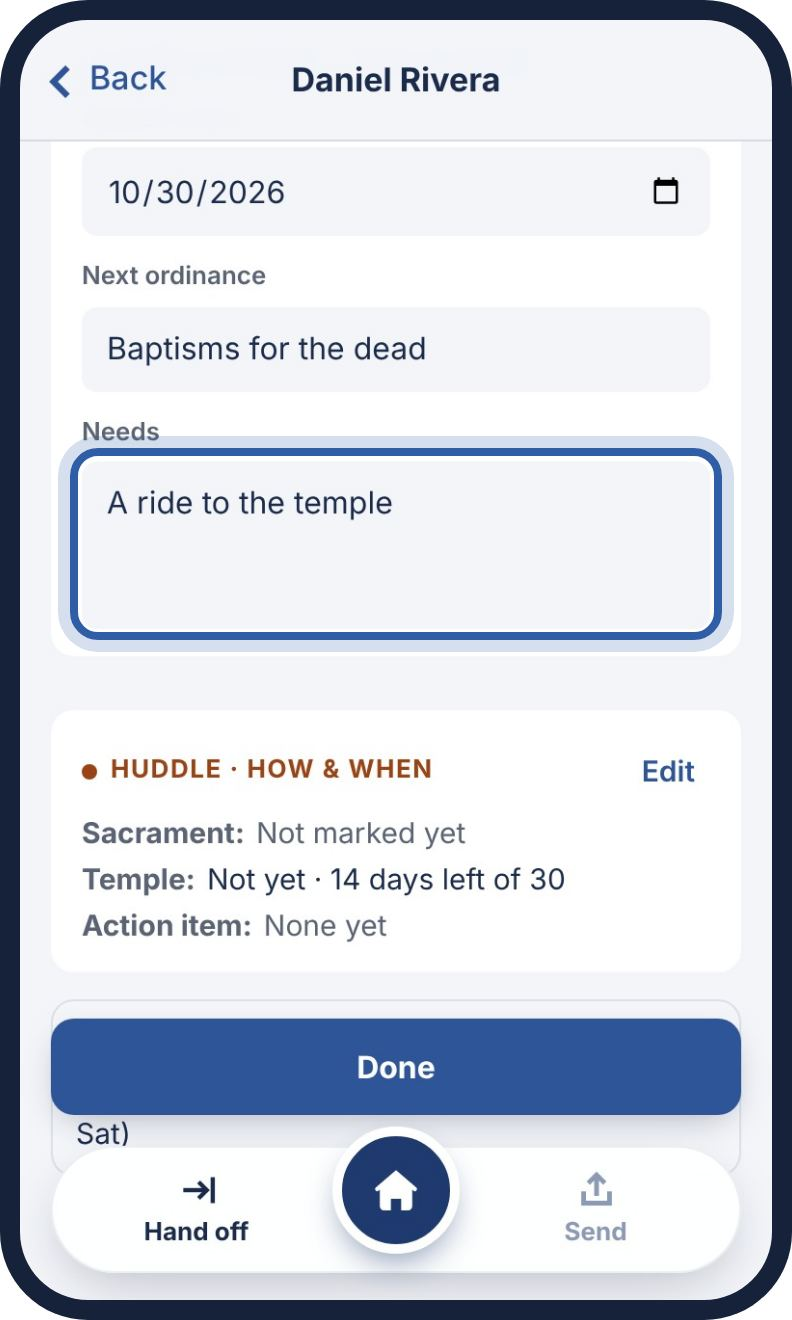
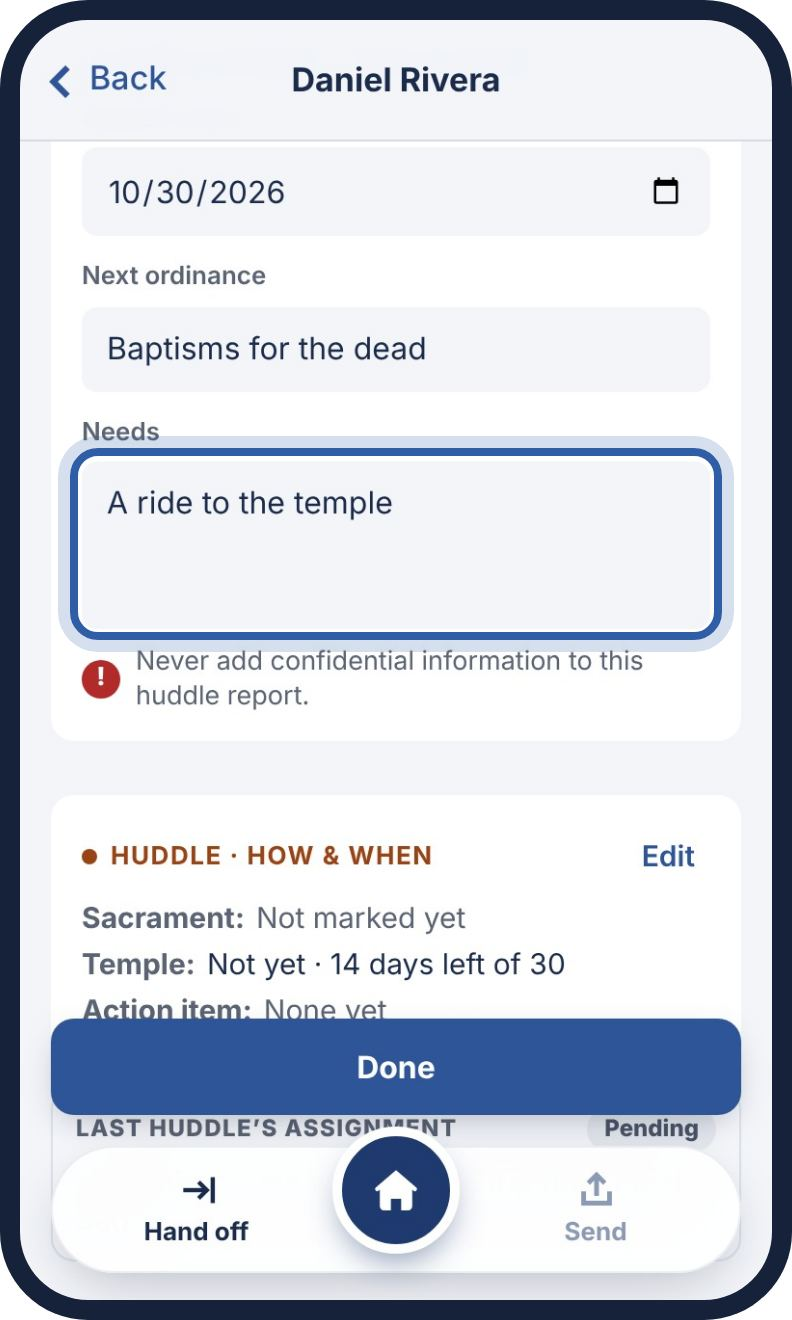
Ward council: the confidential reminder right under a name's Needs box
Claude-Session: https://claude.ai/code/session_01PW98YcMvh8WynmxGN9Y5LD

diff --git a/app.js b/app.js
@@ -769,6 +769,10 @@
     Array.prototype.forEach.call(card.querySelectorAll('.wc-last'), function (x) { x.remove(); });
     (card.classList.contains('person-wc') ? [wcLast(gid, a)].filter(Boolean) : wcExtras(gid, a)).forEach(function (x) { card.appendChild(x); });
   }
+  // Under Needs on a ward council name: the same reminder that sits under the step card.
+  function confNote() {
+    return h('p', { class: 'wc-note need-note full' }, [h('span', { class: 'help-warning-icon', 'aria-hidden': 'true', text: '!' }), h('span', { text: 'Never add confidential information to this huddle report.' })]);
+  }
   function wcPersonCard(r, a) {
     var g = r.g, isTn = g === 'tn', base = isTn ? 'tn.' + r.i + '.' : 'cp.' + g + '.' + r.i + '.';
     var wc = h('div', { class: 'card-zone zone-wc-wrap' }, [
@@ -777,7 +781,8 @@
         g === 'nm' ? field('Baptism date', base + 'bap', { type: 'date', full: true }) : null,
         FIXED_ORD[g] ? h('div', { class: 'field full' }, ['Next ordinance', h('p', { class: 'fixed-value', text: FIXED_ORD[g] })])
           : ordField('Next ordinance', base + 'ordinance', { full: true }),
-        field('Needs', base + 'need', { full: true, multi: true, rows: isTn ? '2' : '3', placeholder: isTn ? 'What do they need to get there?' : 'Tap their name in the Covenant Path Report to identify needs' })
+        field('Needs', base + 'need', { full: true, multi: true, rows: isTn ? '2' : '3', placeholder: isTn ? 'What do they need to get there?' : 'Tap their name in the Covenant Path Report to identify needs' }),
+        confNote()
       ])
     ]);
     var hd = personHdOpen
@@ -1678,7 +1683,8 @@
       gid === 'nm' ? field('Baptism date', base + 'bap', { type: 'date' }) : null,
       FIXED_ORD[gid] ? h('div', { class: 'field' }, ['Next ordinance', h('p', { class: 'fixed-value', text: FIXED_ORD[gid] })])
         : ordField('Next ordinance', base + 'ordinance'),
-      field('Needs', base + 'need', { multi: true, rows: gid === 'tn' ? '2' : '3', placeholder: gid === 'tn' ? 'What do they need to get there?' : 'Tap their name in the Covenant Path Report to identify needs' })
+      field('Needs', base + 'need', { multi: true, rows: gid === 'tn' ? '2' : '3', placeholder: gid === 'tn' ? 'What do they need to get there?' : 'Tap their name in the Covenant Path Report to identify needs' }),
+      confNote()
     ].concat(extras));
   }
   // Ward council opens to its two lists, rolled up like the huddle's sections; tap one for its names.

diff --git a/test/changes.js b/test/changes.js
@@ -60,6 +60,7 @@ const ok = (c, m) => { if (c) { passed++; console.log('PASS ' + m); } else { fai
   // A person's name header opens the name to edit
   await p.locator('[data-action="open-person"]').first().click(); await w(500);
   ok(await p.isVisible('#person-view .avatar-pencil'), 'the initials carry a small pencil');
+  ok(await p.evaluate(() => { const n = document.querySelector('#person-card .need-note'), f = n && n.previousElementSibling; return !!n && /Never add confidential information to this huddle report\./.test(n.textContent) && !!f && !!f.querySelector('[data-bind$=".need"]'); }), 'Ward council: the confidential reminder sits right under Needs on a name');
   await p.click('.person-head'); await w(600);
   ok(await p.evaluate(() => { const a = document.activeElement; return !!a && a.tagName === 'INPUT' && /\.name$/.test(a.getAttribute('data-bind') || '') && a.value === 'Daniel Rivera'; }), 'tapping the name header puts the cursor in the name box');
   await p.evaluate(() => document.activeElement.blur()); await w(600);

diff --git a/styles.css b/styles.css
@@ -1456,3 +1456,6 @@ body[data-view="start"] .title-text .title-sub { color: #FFFFFF; opacity: .88; }
 /* Ward council: Open Part-Member Families, under the four rows */
 .wc-pmf { margin: 4px 0 0; }
 .wc-pmf[hidden] { display: none; }
+
+/* Ward council: the confidential reminder right under a name's Needs box */
+.need-note { grid-column: 1 / -1; margin: -4px 0 0; }

diff --git a/sw.js b/sw.js
@@ -1,5 +1,5 @@
 /* Offline support: caches the page's own files only. It never stores form data. */
-var CACHE = 'huddle-v228';
+var CACHE = 'huddle-v229';
 var FILES = [
   './',
   'index.html',

diff --git a/docs/SPEC.md b/docs/SPEC.md
@@ -276,8 +276,9 @@ in Leader and Clerk Resources (`https://lcr.churchofjesuschrist.org/mlt/report/p
 outside the app (`target="_blank"`), for finding names to discuss. Member Tools has no link to this report, so
 it always opens the web page. It shows on the four-row screen only, not on the lists of names.
 Right under the step card, once, is "Never add confidential information to this huddle report." as one
-small gray line with a red "!" (the Huddle has the same line in the same place). It is not repeated on the
-lists or on a person's screen. New members' rows show the same temple countdown as in the Huddle
+small gray line with a red "!" (the Huddle has the same line in the same place). On a person's Ward council
+screen the same line sits right under the **Needs** box, where details are typed. It is not repeated on the
+lists. New members' rows show the same temple countdown as in the Huddle
 ("Temple: 14 days left" in red), so the 30-day goal is in front of both meetings.
 
 **The name is edited in the header, and only there.** On every person's screen (Before ward council, Ward
